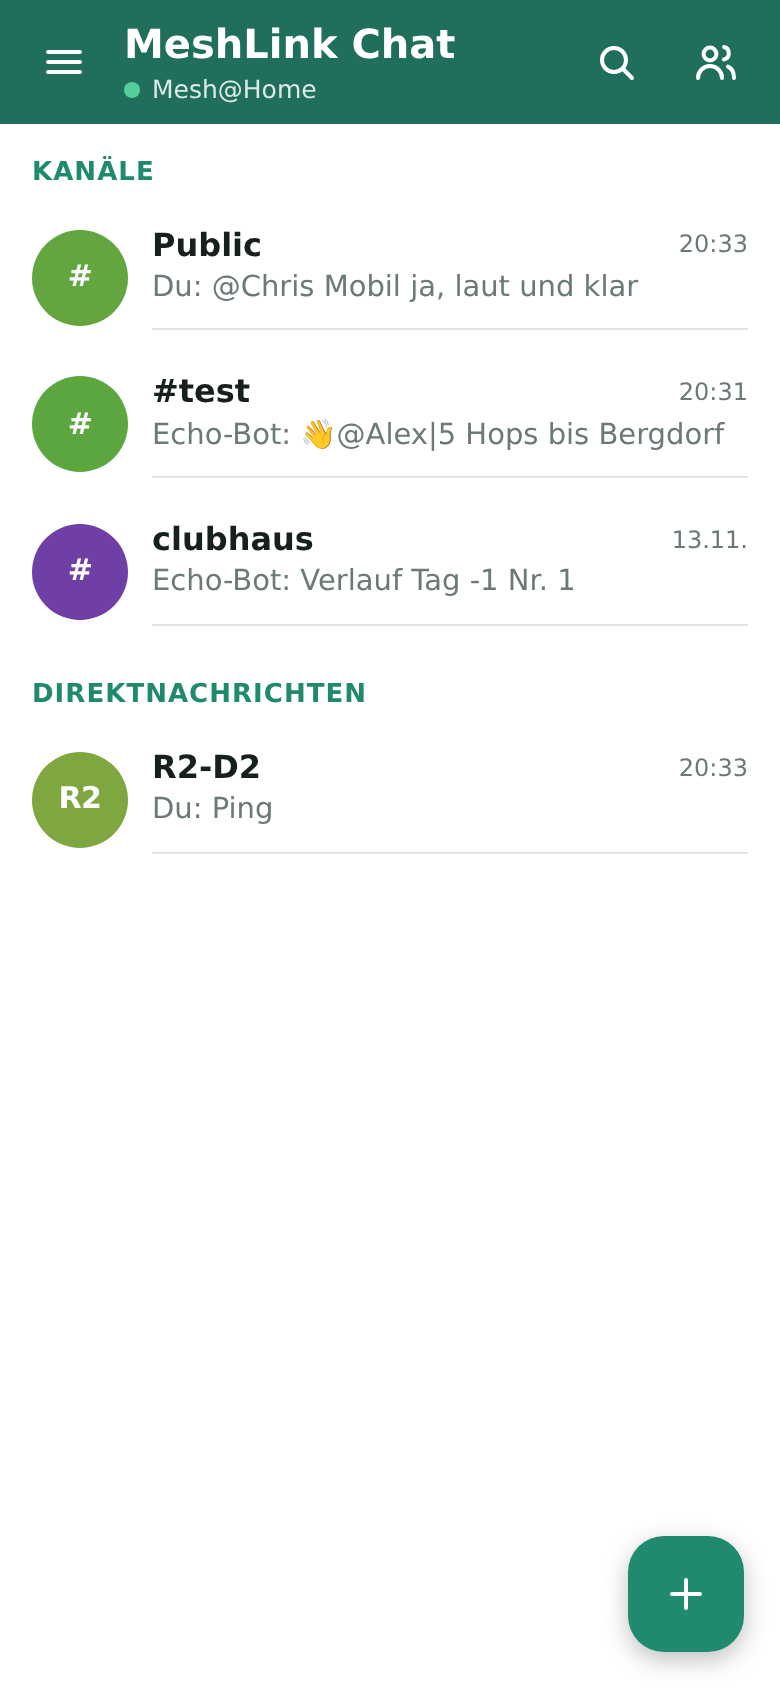
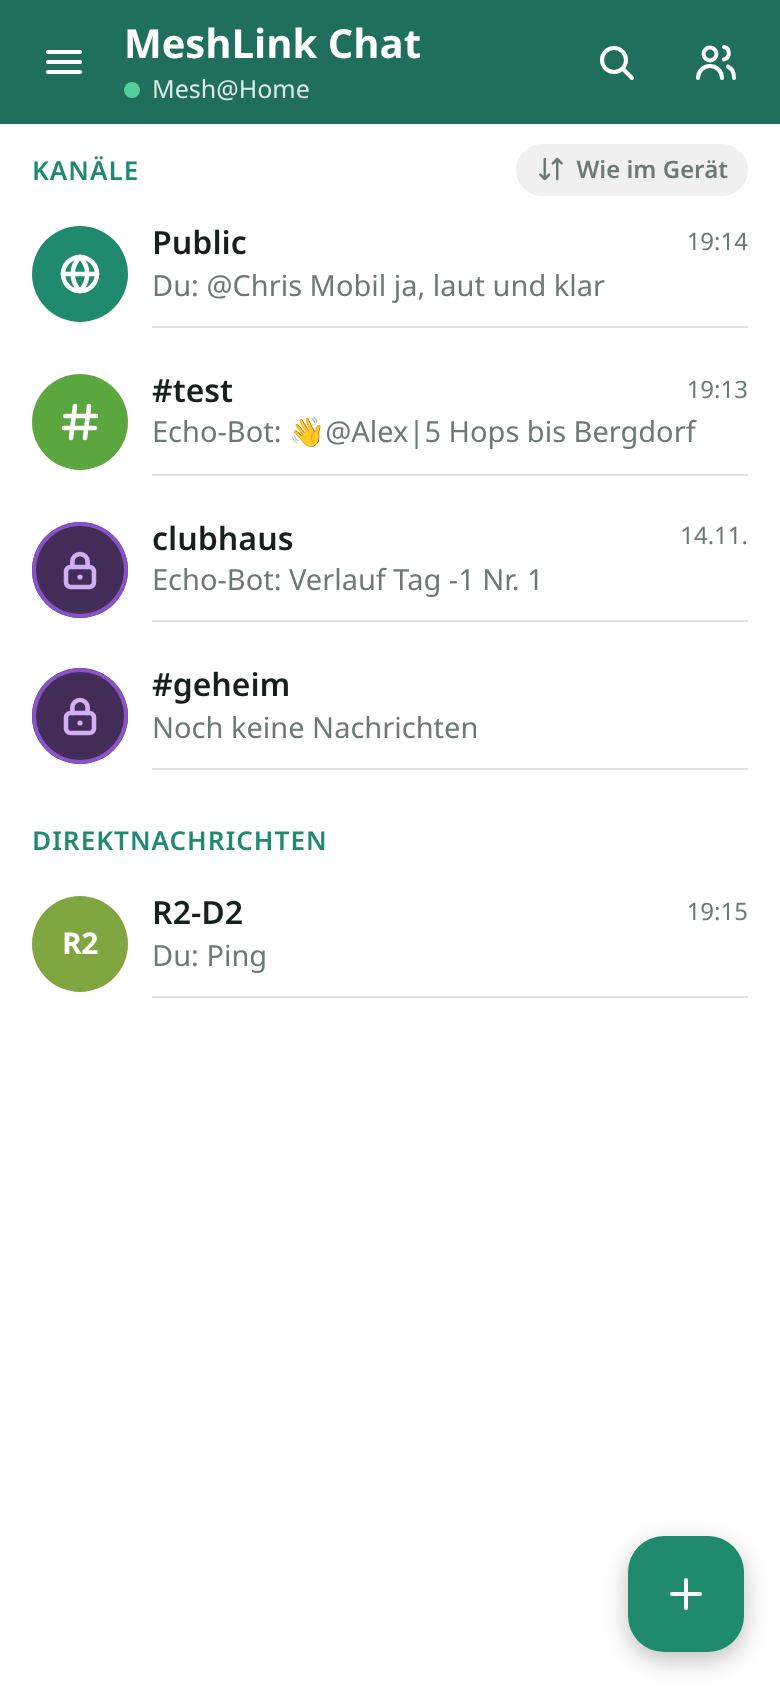
Nur Screenshots und README aktualisiert (keine Code-Änderung)
Alle Screenshots neu aus dem Mock (Stand 1.4.1): Kanal-Symbole und
Sortierknopf in der Chatliste, aktuelle Chat-, DM-, Paket-, Statistik- und
Reach-Ansichten. Neu: admin.png (Repeater-Verwaltung, Status), in beiden
READMEs eingebunden. Nur Testdaten, keine Zusatzdaten in den Bildern.

diff --git a/README.de.md b/README.de.md
@@ -69,6 +69,7 @@ sind eine einzelne Datei, siehe [Weitere Sprache hinzufügen](#weitere-sprache-h
 <p align="center">
   <img src="docs/screenshots/reach.png" width="240" alt="Reach eines Repeaters">
   <img src="docs/screenshots/reach-map.png" width="240" alt="Reach auf der Karte">
+  <img src="docs/screenshots/admin.png" width="240" alt="Repeater-Verwaltung: Status">
 </p>
 
 <sub>Alle Screenshots zeigen erfundene Testdaten.</sub>

diff --git a/README.md b/README.md
@@ -69,6 +69,7 @@ see [Adding a language](#adding-a-language).
 <p align="center">
   <img src="docs/screenshots/reach.png" width="240" alt="Reach of a repeater">
   <img src="docs/screenshots/reach-map.png" width="240" alt="Reach on the map">
+  <img src="docs/screenshots/admin.png" width="240" alt="Repeater admin: status">
 </p>
 
 <sub>All screenshots show made-up test data (German interface).</sub>
